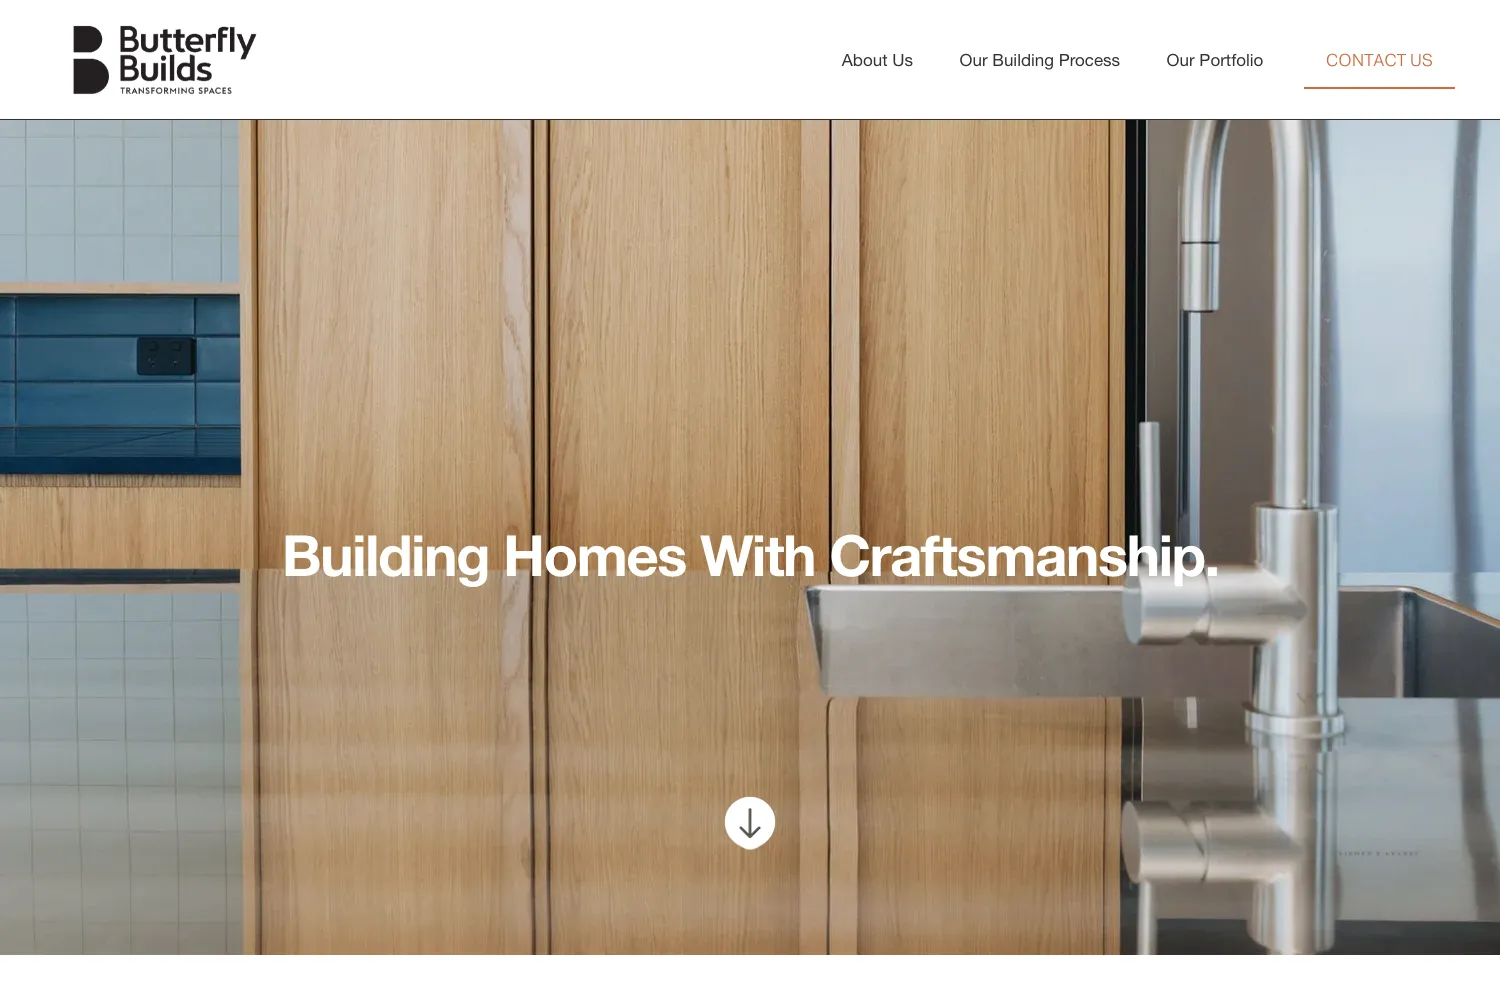
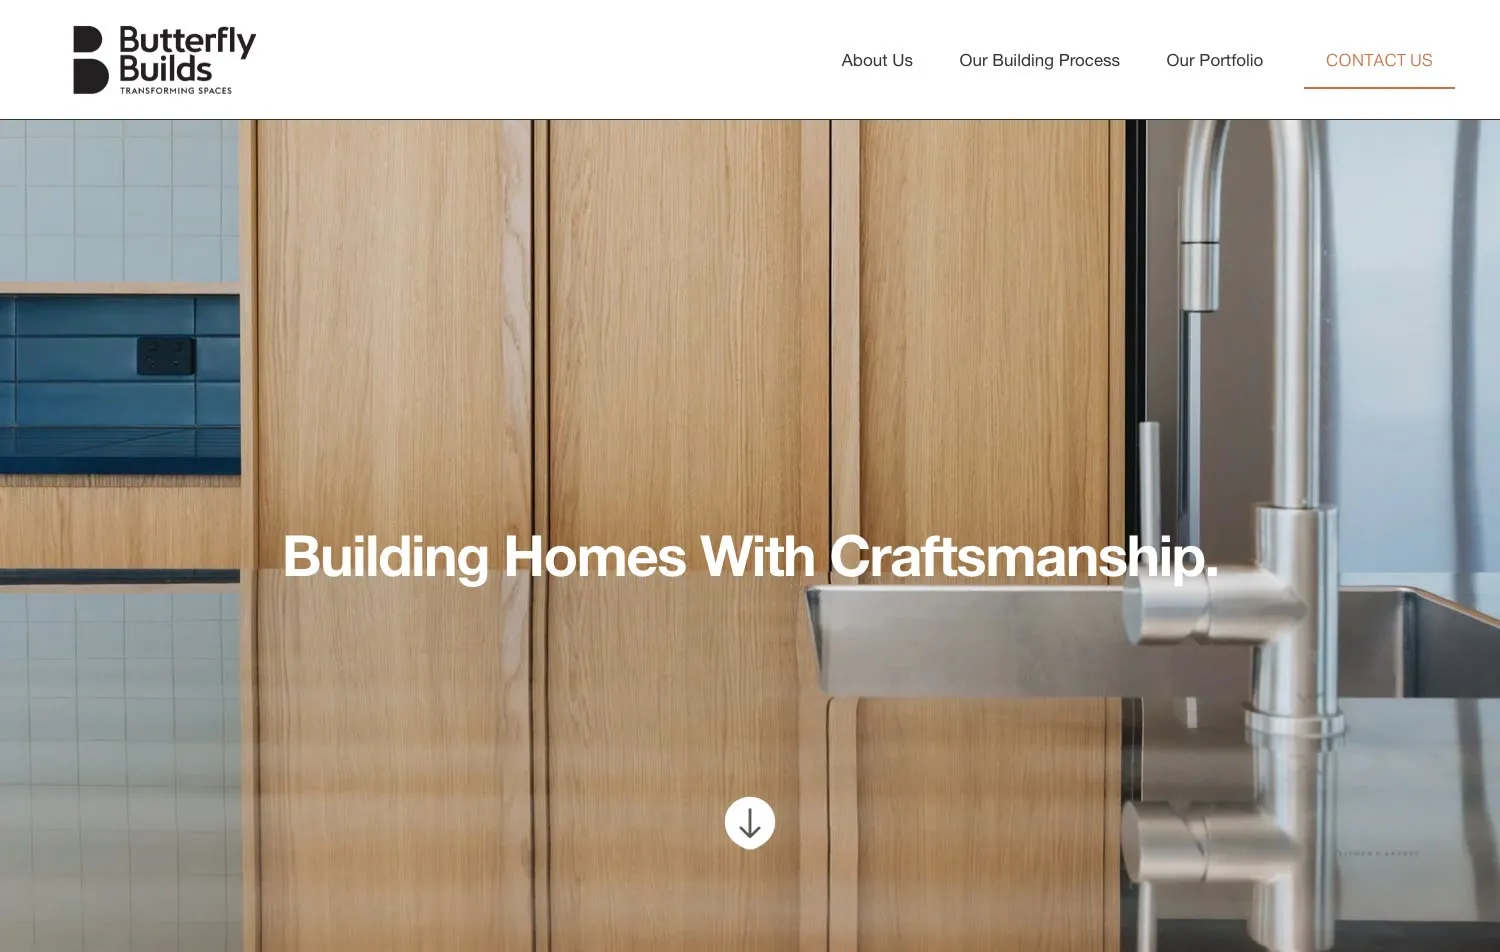
Case studies: phone captures, copy fixes and title wraps for Peniel, Butterfly and Church Network
Replace sideways-scrolling screenshots with real phone captures, reorder Peniel sections, crop
several screenshots, apply the copy fixes and stop the slash titles breaking before the slash.

diff --git a/case-wcn.html b/case-wcn.html
@@ -82,14 +82,14 @@
     <p class="menu-foot">Singh Studio, Aotearoa New Zealand<br>kris@singhstudio.co.nz</p>
   </div>
 
-  <main class="cx" id="main" style="--cx-band:#2d2e2a;--cx-quote:#2d2e2a">
+  <main class="cx" id="main" style="--cx-band:#3d7773;--cx-quote:#2d2e2a">
 
     <header class="cx-head">
       <div class="cx-wrap">
         <div class="cx-head-grid">
           <div class="cx-head-text">
             <a class="cx-back" href="index.html#work">← All work</a>
-            <h1 class="cx-title" aria-label="Wellington Church Network">Church<span class="cx-slash" aria-hidden="true">/</span><wbr>Network</h1>
+            <h1 class="cx-title" aria-label="Wellington Church Network"><span class="cx-nb">Church<span class="cx-slash" aria-hidden="true">/</span></span><wbr>Network</h1>
             <p class="cx-result">A shared home for a city-wide network, with its five verbs as the menu.</p>
             <div class="cx-actions">
               <a class="cx-btn cx-btn-solid" href="https://www.wellingtonchurchnetwork.co.nz" target="_blank" rel="noopener">Visit the site ↗</a>
@@ -117,7 +117,7 @@
       <div class="cx-wrap">
         <h2 class="cx-sr" id="glance-h">At a glance</h2>
         <div class="cx-glance-grid" data-reveal>
-          <div><h3 class="cx-label">What they needed</h3><p>The network is pastors and leaders from dozens of congregations, gathered around one hope: to see Te Whanganui-a-Tara Wellington thrive.</p></div>
+          <div><h3 class="cx-label">What they needed</h3><p>The network is pastors and leaders from dozens of congregations, gathered around one hope: to see Te Whanganui-a-Tara Wellington thrive. It needed a front door that no single church owned.</p></div>
           <div><h3 class="cx-label">What I did</h3><p>I turned the network’s verbs into the menu and built values and people pages behind them.</p></div>
           <div><h3 class="cx-label">What changed</h3><p>Five verbs in the menu explain the vision without needing a paragraph.</p></div>
         </div>
@@ -146,7 +146,7 @@
               <p>I used those five verbs as the navigation, so the menu explains what the network is about before anyone scrolls.</p>
             </div>
             <figure class="cx-media cx-fig" data-reveal style="--i:1">
-              <div class="cx-frame"><div class="cx-frame-bar" aria-hidden="true"><i></i><i></i><i></i><span class="cx-frame-url">wellingtonchurchnetwork.co.nz</span></div><picture><source type="image/webp" srcset="assets/img/case-wcn-priorities.webp"><img src="assets/img/case-wcn-priorities.jpg" alt="The Our priorities block on the home page: five cards numbered one to five, Connect, Pray and worship, Serve, Declare and Multiply, each with a short description" width="667" height="1373" loading="lazy" decoding="async"></picture></div>
+              <div class="cx-frame cx-fade"><div class="cx-frame-bar" aria-hidden="true"><i></i><i></i><i></i><span class="cx-frame-url">wellingtonchurchnetwork.co.nz</span></div><picture><source type="image/webp" srcset="assets/img/case-wcn-priorities.webp"><img src="assets/img/case-wcn-priorities.jpg" alt="The Our priorities block on the home page: five cards numbered one to five, Connect, Pray and worship, Serve, Declare and Multiply, each with a short description" width="666" height="714" loading="lazy" decoding="async"></picture></div>
             </figure>
           </div>
         </div>
@@ -155,12 +155,11 @@
         <div class="cx-wrap">
           <h2 class="cx-wide-head" id="front-door" data-reveal>One front door</h2>
           <figure class="cx-fig" data-reveal>
-            <div class="cx-frame"><div class="cx-frame-bar" aria-hidden="true"><i></i><i></i><i></i><span class="cx-frame-url">wellingtonchurchnetwork.co.nz/connect</span></div><div class="cx-pan" style="--pan:1000px" tabindex="0" role="group" aria-label="Screenshot, scrolls sideways on small screens"><picture><source type="image/webp" srcset="assets/img/case-wcn-connect.webp"><img src="assets/img/case-wcn-connect.jpg" alt="The Connect page: the five-verb menu, the heading We connect, a line about connecting pastors and church leaders, and filters for area, denomination, businesses and student groups" width="1500" height="695" loading="lazy" decoding="async"></picture></div></div>
+            <div class="cx-frame"><div class="cx-frame-bar" aria-hidden="true"><i></i><i></i><i></i><span class="cx-frame-url">wellingtonchurchnetwork.co.nz/connect</span></div><picture><source media="(max-width: 700px)" type="image/webp" srcset="assets/img/case-wcn-connect-m.webp" width="780" height="720"><source media="(max-width: 700px)" type="image/jpeg" srcset="assets/img/case-wcn-connect-m.jpg" width="780" height="720"><source type="image/webp" srcset="assets/img/case-wcn-connect.webp"><img src="assets/img/case-wcn-connect.jpg" alt="The Connect page: the five-verb menu, the heading We connect, a line about connecting pastors and church leaders, and filters for area, denomination, businesses and student groups" width="1500" height="695" loading="lazy" decoding="async"></picture></div>
           </figure>
           <div class="cx-cols2" data-reveal>
             <div>
-              <p>A network spread across that many organisations needed a front door that no single church owned.</p>
-              <p>That makes it a shared home any member church can point people to.</p>
+              <p>Any member church can point people to it as a shared home.</p>
             </div>
             <div>
               <p>The Connect page opens with what the network does in one line, then lets visitors filter by area, denomination, businesses and student groups.</p>
@@ -172,24 +171,16 @@
         <div class="cx-wrap">
           <h2 class="cx-wide-head" id="values" data-reveal>Values and people</h2>
           <figure class="cx-fig" data-reveal>
-            <div class="cx-frame"><div class="cx-frame-bar" aria-hidden="true"><i></i><i></i><i></i><span class="cx-frame-url">wellingtonchurchnetwork.co.nz/values</span></div><div class="cx-pan" style="--pan:1000px" tabindex="0" role="group" aria-label="Screenshot, scrolls sideways on small screens"><picture><source type="image/webp" srcset="assets/img/case-wcn-values.webp"><img src="assets/img/case-wcn-values.jpg" alt="The Values page: a harbour headland beside the line We’re passionate for Wellington to unite, and a note that the network supports city-wide unity initiatives within five priorities" width="1500" height="845" loading="lazy" decoding="async"></picture></div></div>
+            <div class="cx-frame"><div class="cx-frame-bar" aria-hidden="true"><i></i><i></i><i></i><span class="cx-frame-url">wellingtonchurchnetwork.co.nz/values</span></div><picture><source media="(max-width: 700px)" type="image/webp" srcset="assets/img/case-wcn-values-m.webp" width="780" height="890"><source media="(max-width: 700px)" type="image/jpeg" srcset="assets/img/case-wcn-values-m.jpg" width="780" height="890"><source type="image/webp" srcset="assets/img/case-wcn-values.webp"><img src="assets/img/case-wcn-values.jpg" alt="The Values page: a harbour headland beside the line We’re passionate for Wellington to unite, and a note that the network supports city-wide unity initiatives within five priorities" width="1500" height="845" loading="lazy" decoding="async"></picture></div>
           </figure>
-          <div class="cx-cols2" data-reveal>
-            <div>
-              <p>Values and people pages sit behind the five verbs.</p>
-              <p>The values page says the network promotes and supports city-wide unity initiatives that fit within the five priorities of its vision.</p>
-            </div>
-            <div>
-              <p>The whole site is light enough for a volunteer-run network to keep up to date.</p>
-            </div>
-          </div>
+          <p class="cx-plain" data-reveal>The whole site is light enough for a volunteer-run network to keep up to date.</p>
         </div>
       </section>
 
       <section class="cx-sec cx-section" aria-labelledby="result">
         <div class="cx-wrap">
           <h2 id="result" data-reveal>The result</h2>
-          <p class="cx-plain" data-reveal>Simple enough to run without a web team behind it.</p>
+          <p class="cx-plain" data-reveal>The site is simple enough to run without a web team behind it.</p>
         </div>
       </section>
     </div>

diff --git a/case-peniel.html b/case-peniel.html
@@ -90,7 +90,7 @@
         <div class="cx-head-grid">
           <div class="cx-head-text">
             <a class="cx-back" href="index.html#work">← All work</a>
-            <h1 class="cx-title" aria-label="Peniel Trust">Peniel<span class="cx-slash" aria-hidden="true">/</span><wbr>Trust</h1>
+            <h1 class="cx-title" aria-label="Peniel Trust"><span class="cx-nb">Peniel<span class="cx-slash" aria-hidden="true">/</span></span><wbr>Trust</h1>
             <p class="cx-result">A public home for the trust, with donations taken properly and receipts sent automatically.</p>
             <div class="cx-actions">
               <a class="cx-btn cx-btn-solid" href="https://www.penieltrust.com" target="_blank" rel="noopener">Visit the site ↗</a>
@@ -100,7 +100,7 @@
           <aside class="cx-facts" aria-label="Project facts">
             <dl>
               <div><dt>Client</dt><dd>Peniel Charitable Trust, Wellington</dd></div>
-              <div><dt>Year</dt><dd>2025 – now</dd></div>
+              <div><dt>Year</dt><dd>2025 to now</dd></div>
               <div><dt>My part</dt><dd><ul><li>Site design &amp; build</li><li>Donations &amp; automated receipts</li><li>Growth Fund campaign page</li><li>Pledge calculator &amp; custom blocks</li></ul></dd></div>
             </dl>
           </aside>
@@ -130,36 +130,22 @@
         <div class="cx-wrap">
           <div class="cx-bar-in">
             <span class="cx-bar-label">On this page</span>
-            <a href="#updates">Project updates</a>
             <a href="#growth">Growth Fund page</a>
             <a href="#giving">Giving</a>
+            <a href="#updates">Project updates</a>
             <a href="#result">The result</a>
           </div>
         </div>
       </nav>
 
-      <section class="cx-sec cx-section" aria-labelledby="updates">
-        <div class="cx-wrap">
-          <div class="cx-split">
-            <div class="cx-copy" data-reveal>
-              <h2 id="updates">Project updates</h2>
-              <p>The site tells the story clearly, with about, our work and project updates pages.</p>
-              <p>The most recent post on the updates page covers the 2026 enrolment records.</p>
-            </div>
-            <figure class="cx-media cx-fig" data-reveal style="--i:1">
-              <div class="cx-frame"><div class="cx-frame-bar" aria-hidden="true"><i></i><i></i><i></i><span class="cx-frame-url">penieltrust.com/project-updates</span></div><picture><source type="image/webp" srcset="assets/img/case-peniel-updates.webp"><img src="assets/img/case-peniel-updates.jpg" alt="The latest project update card: a photograph of a classroom being fitted out, the date, and the headline about the 2026 enrolment records" width="920" height="1110" loading="lazy" decoding="async"></picture></div>
-            </figure>
-          </div>
-        </div>
-      </section>
       <section class="cx-sec cx-section" aria-labelledby="growth">
         <div class="cx-wrap">
           <h2 class="cx-wide-head" id="growth" data-reveal>The Growth Fund page</h2>
           <figure class="cx-fig" data-reveal>
-            <div class="cx-frame"><div class="cx-frame-bar" aria-hidden="true"><i></i><i></i><i></i><span class="cx-frame-url">penieltrust.com/growthfund</span></div><div class="cx-pan" style="--pan:1000px" tabindex="0" role="group" aria-label="Screenshot, scrolls sideways on small screens"><picture><source type="image/webp" srcset="assets/img/case-peniel-calc.webp"><img src="assets/img/case-peniel-calc.jpg" alt="The pledge calculator on the Growth Fund page, set to a $5,000 annual pledge, showing a $1,666 tax credit and a real cost from $3,334" width="1500" height="610" loading="lazy" decoding="async"></picture></div></div>
+            <div class="cx-frame"><div class="cx-frame-bar" aria-hidden="true"><i></i><i></i><i></i><span class="cx-frame-url">penieltrust.com/growthfund</span></div><picture><source media="(max-width: 700px)" type="image/webp" srcset="assets/img/case-peniel-calc-m.webp" width="780" height="974"><source media="(max-width: 700px)" type="image/jpeg" srcset="assets/img/case-peniel-calc-m.jpg" width="780" height="974"><source type="image/webp" srcset="assets/img/case-peniel-calc.webp"><img src="assets/img/case-peniel-calc.jpg" alt="The pledge calculator on the Growth Fund page, set to a $5,000 annual pledge, showing a $1,666 tax credit and a real cost from $3,334" width="1500" height="610" loading="lazy" decoding="async"></picture></div>
           </figure>
           <figure class="cx-fig cx-fig-gap" data-reveal>
-            <div class="cx-frame"><div class="cx-frame-bar" aria-hidden="true"><i></i><i></i><i></i><span class="cx-frame-url">penieltrust.com/growthfund</span></div><div class="cx-pan" style="--pan:900px" tabindex="0" role="group" aria-label="Screenshot, scrolls sideways on small screens"><picture><source type="image/webp" srcset="assets/img/case-peniel-plan.webp"><img src="assets/img/case-peniel-plan.jpg" alt="The development plan band: five stages from 2025 to the 2030s, with capacity rising from 180 to 390 and a projected roll of 800 or more" width="1330" height="345" loading="lazy" decoding="async"></picture></div></div>
+            <div class="cx-frame"><div class="cx-frame-bar" aria-hidden="true"><i></i><i></i><i></i><span class="cx-frame-url">penieltrust.com/growthfund</span></div><picture><source media="(max-width: 700px)" type="image/webp" srcset="assets/img/case-peniel-plan-m.webp" width="780" height="870"><source media="(max-width: 700px)" type="image/jpeg" srcset="assets/img/case-peniel-plan-m.jpg" width="780" height="870"><source type="image/webp" srcset="assets/img/case-peniel-plan.webp"><img src="assets/img/case-peniel-plan.jpg" alt="The development plan band: five stages from 2025 to the 2030s, with capacity rising from 180 to 390 and a projected roll of 800 or more" width="1330" height="345" loading="lazy" decoding="async"></picture></div>
           </figure>
           <div class="cx-cols2" data-reveal>
             <div>
@@ -178,7 +164,7 @@
           <div class="cx-split flip">
             <div class="cx-copy" data-reveal>
               <h2 id="giving">Giving that runs itself</h2>
-              <p>It takes donations properly, set up from start to finish.</p>
+              <p>I set up donations from start to finish.</p>
               <p>A supporter picks an amount and how often to give, from one-time to annual, and can choose to cover the fees the trust has to pay.</p>
             </div>
             <figure class="cx-media cx-fig" data-reveal style="--i:1">
@@ -187,11 +173,25 @@
           </div>
         </div>
       </section>
+      <section class="cx-sec cx-section" aria-labelledby="updates">
+        <div class="cx-wrap">
+          <div class="cx-split">
+            <div class="cx-copy" data-reveal>
+              <h2 id="updates">Project updates</h2>
+              <p>The site tells the story clearly, with about, our work and project updates pages.</p>
+              <p>That’s where the trust reports progress to supporters.</p>
+            </div>
+            <figure class="cx-media cx-fig" data-reveal style="--i:1">
+              <div class="cx-frame"><div class="cx-frame-bar" aria-hidden="true"><i></i><i></i><i></i><span class="cx-frame-url">penieltrust.com/project-updates</span></div><picture><source type="image/webp" srcset="assets/img/case-peniel-updates.webp"><img src="assets/img/case-peniel-updates.jpg" alt="The latest project update card: a photograph of a classroom being fitted out, the date and the headline about the 2026 enrolment records" width="920" height="810" loading="lazy" decoding="async"></picture></div>
+            </figure>
+          </div>
+        </div>
+      </section>
 
       <section class="cx-sec cx-section" aria-labelledby="result">
         <div class="cx-wrap">
           <h2 id="result" data-reveal>The result</h2>
-          <p class="cx-plain" data-reveal>The engagement continues, and campaign pages ship as the fund grows.</p>
+          <p class="cx-plain" data-reveal>I’m still working with the trust, and new campaign pages go up as the fund grows.</p>
         </div>
       </section>
       <section class="cx-quote-band cx-section" aria-label="What the client said">

diff --git a/case-butterfly.html b/case-butterfly.html
@@ -89,8 +89,8 @@
         <div class="cx-head-grid">
           <div class="cx-head-text">
             <a class="cx-back" href="index.html#work">← All work</a>
-            <h1 class="cx-title" aria-label="Butterfly Builds">Butterfly<span class="cx-slash" aria-hidden="true">/</span><wbr>Builds</h1>
-            <p class="cx-result">A site rebuilt around process and proof, as carefully made as the joinery.</p>
+            <h1 class="cx-title" aria-label="Butterfly Builds"><span class="cx-nb">Butterfly<span class="cx-slash" aria-hidden="true">/</span></span><wbr>Builds</h1>
+            <p class="cx-result">A portfolio-led site for a building company in Tauranga and Wellington.</p>
             <div class="cx-actions">
               <a class="cx-btn cx-btn-solid" href="https://www.butterflybuilds.co.nz" target="_blank" rel="noopener">Visit the site ↗</a>
               <a class="cx-btn cx-btn-quiet" href="index.html?about=the%20Butterfly%20Builds%20case#contact">Book a call</a>
@@ -109,7 +109,7 @@
 
     <div class="cx-hero">
       <div class="cx-hero-frame" data-rise>
-        <div class="cx-frame"><div class="cx-frame-bar" aria-hidden="true"><i></i><i></i><i></i><span class="cx-frame-url">butterflybuilds.co.nz</span></div><picture><source type="image/webp" srcset="assets/img/case-butterfly-home.webp"><img src="assets/img/case-butterfly-home.jpg" alt="The Butterfly Builds homepage: the headline Building Homes With Craftsmanship over a close photograph of oak cabinetry and a steel tap" width="1500" height="990" fetchpriority="high" decoding="async"></picture></div>
+        <div class="cx-frame"><div class="cx-frame-bar" aria-hidden="true"><i></i><i></i><i></i><span class="cx-frame-url">butterflybuilds.co.nz</span></div><picture><source type="image/webp" srcset="assets/img/case-butterfly-home.webp"><img src="assets/img/case-butterfly-home.jpg" alt="The Butterfly Builds homepage: the headline Building Homes With Craftsmanship over a close photograph of oak cabinetry and a steel tap" width="1500" height="950" fetchpriority="high" decoding="async"></picture></div>
       </div>
     </div>
 
@@ -141,7 +141,7 @@
         <div class="cx-wrap">
           <h2 class="cx-wide-head" id="process" data-reveal>Process and proof</h2>
           <figure class="cx-fig" data-reveal>
-            <div class="cx-frame"><div class="cx-frame-bar" aria-hidden="true"><i></i><i></i><i></i><span class="cx-frame-url">butterflybuilds.co.nz/process</span></div><div class="cx-pan" style="--pan:1000px" tabindex="0" role="group" aria-label="Screenshot, scrolls sideways on small screens"><picture><source type="image/webp" srcset="assets/img/case-butterfly-process.webp"><img src="assets/img/case-butterfly-process.jpg" alt="The step-by-step building process block: numbered tabs from Initial contact to Preliminary budget, with the first step shown beside a photograph of a builder on the phone at a red front door" width="1500" height="940" loading="lazy" decoding="async"></picture></div></div>
+            <div class="cx-frame"><div class="cx-frame-bar" aria-hidden="true"><i></i><i></i><i></i><span class="cx-frame-url">butterflybuilds.co.nz/process</span></div><picture><source media="(max-width: 700px)" type="image/webp" srcset="assets/img/case-butterfly-process-m.webp" width="780" height="808"><source media="(max-width: 700px)" type="image/jpeg" srcset="assets/img/case-butterfly-process-m.jpg" width="780" height="808"><source type="image/webp" srcset="assets/img/case-butterfly-process.webp"><img src="assets/img/case-butterfly-process.jpg" alt="The step-by-step building process block: numbered tabs from Initial contact to Preliminary budget, with the first step shown beside a photograph of a builder on the phone at a red front door" width="1500" height="680" loading="lazy" decoding="async"></picture></div>
           </figure>
           <div class="cx-cols2" data-reveal>
             <div>
@@ -172,17 +172,9 @@
         <div class="cx-wrap">
           <h2 class="cx-wide-head" id="trust" data-reveal>Trust, easy to find</h2>
           <figure class="cx-fig" data-reveal>
-            <div class="cx-frame"><div class="cx-frame-bar" aria-hidden="true"><i></i><i></i><i></i><span class="cx-frame-url">butterflybuilds.co.nz/about</span></div><div class="cx-pan" style="--pan:1000px" tabindex="0" role="group" aria-label="Screenshot, scrolls sideways on small screens"><picture><source type="image/webp" srcset="assets/img/case-butterfly-monarch.webp"><img src="assets/img/case-butterfly-monarch.jpg" alt="The Monarch Guarantee block on the about page: a butterfly emblem, a personal promise and the first two of four reasons to trust the work" width="1500" height="700" loading="lazy" decoding="async"></picture></div></div>
+            <div class="cx-frame"><div class="cx-frame-bar" aria-hidden="true"><i></i><i></i><i></i><span class="cx-frame-url">butterflybuilds.co.nz/about</span></div><picture><source media="(max-width: 700px)" type="image/webp" srcset="assets/img/case-butterfly-monarch-m.webp" width="780" height="860"><source media="(max-width: 700px)" type="image/jpeg" srcset="assets/img/case-butterfly-monarch-m.jpg" width="780" height="860"><source type="image/webp" srcset="assets/img/case-butterfly-monarch.webp"><img src="assets/img/case-butterfly-monarch.jpg" alt="The Monarch Guarantee block on the about page: a butterfly emblem, a personal promise and the first two of four reasons to trust the work" width="1500" height="700" loading="lazy" decoding="async"></picture></div>
           </figure>
-          <div class="cx-cols2" data-reveal>
-            <div>
-              <p>Master Builder and LBP credentials, reviews and the Monarch Guarantee are all easy to find.</p>
-              <p>The guarantee has its own block on the about page.</p>
-            </div>
-            <div>
-              <p>It opens with a personal promise and sets out four reasons to trust the work, from true value for your money to meeting and exceeding industry standards.</p>
-            </div>
-          </div>
+          <p class="cx-plain" data-reveal>Master Builder and LBP credentials and client reviews are all easy to find, and the Monarch Guarantee has its own block on the about page.</p>
         </div>
       </section>
 

diff --git a/css/case.css b/css/case.css
@@ -428,11 +428,8 @@
 
 /* ==== extras: live sites ==== */
 .cx-fig-gap { margin-top: clamp(1.5rem, 3vw, 2.25rem); }
-.cx-pan:focus-visible { outline: 3px solid var(--bone); outline-offset: -3px; }
-@media (max-width: 700px) {
-  .cx-pan { overflow-x: auto; overscroll-behavior-x: contain; }
-  .cx-frame .cx-pan img { width: var(--pan, 900px); max-width: none; }
-}
+.cx-nb { white-space: nowrap; }
+.cx-fade picture { display: block; -webkit-mask-image: linear-gradient(#000 80%, transparent); mask-image: linear-gradient(#000 80%, transparent); }
 
 /* ==== end live sites ==== */
 
